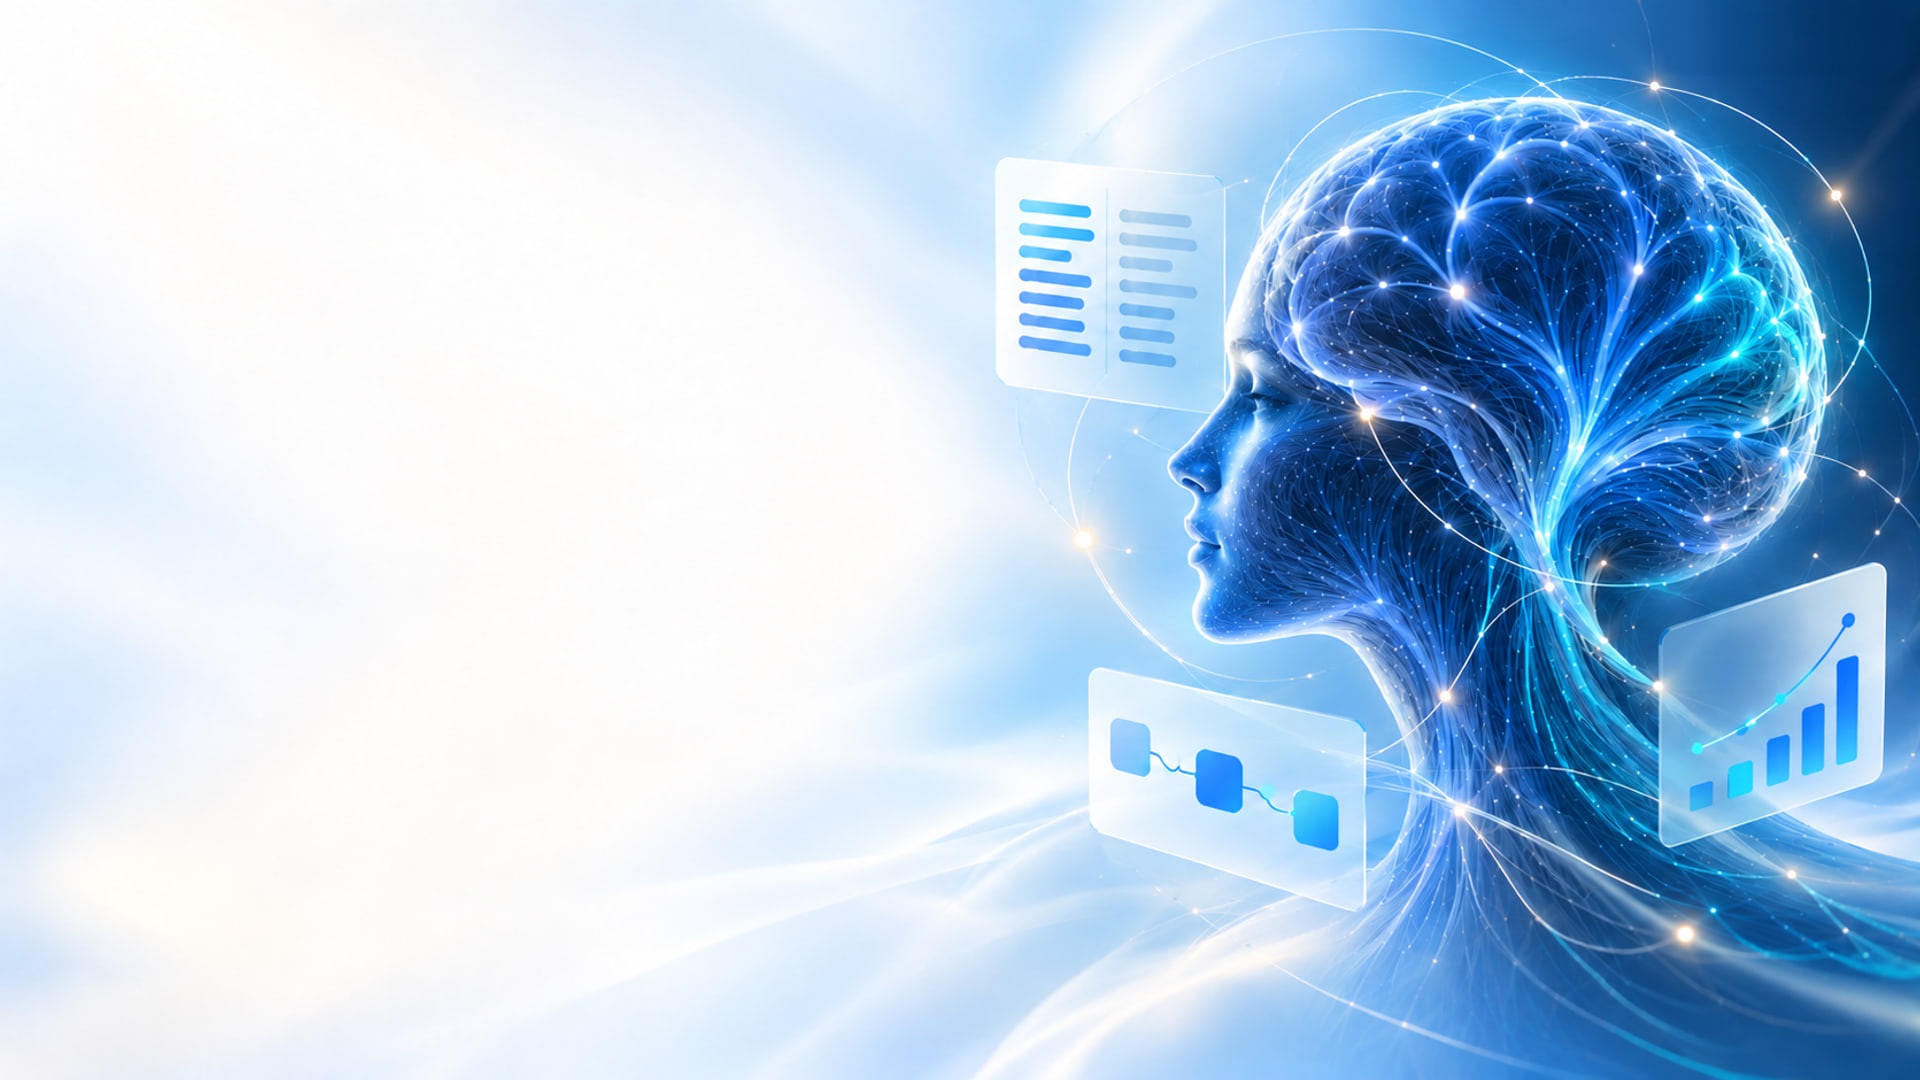
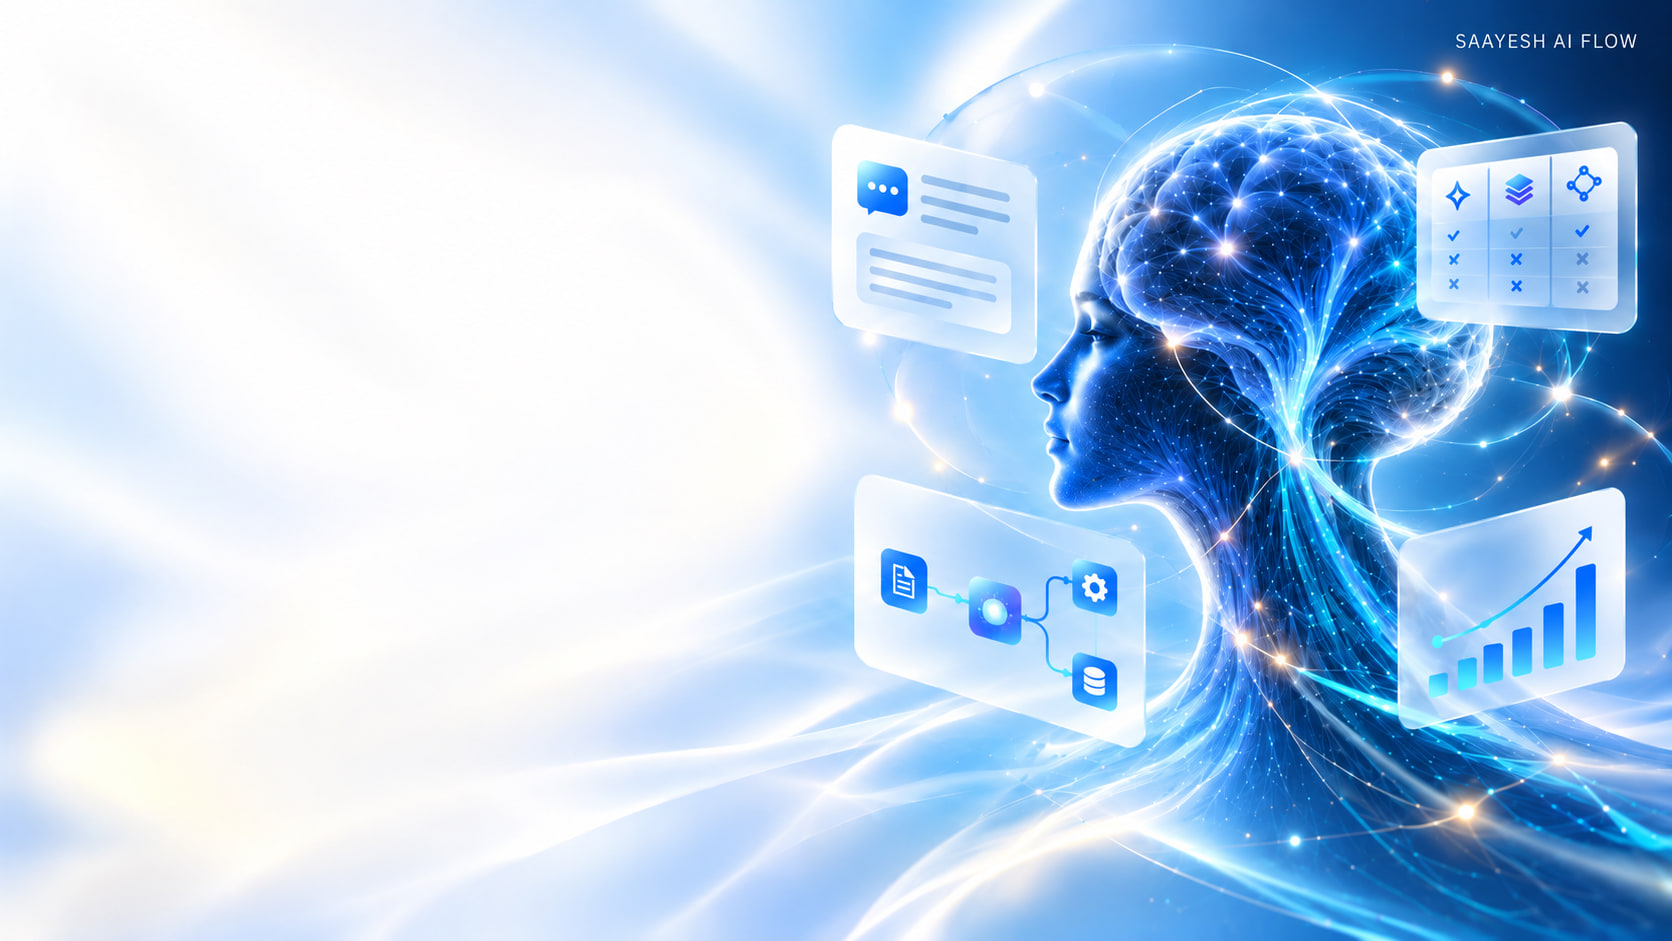
Add homepage image

diff --git a/src/config/media.ts b/src/config/media.ts
@@ -124,14 +124,24 @@ export const MEDIA = {
     credit: owned(),
   },
   /**
-   * The homepage hero. Composed with its subject on the right and open sky on
-   * the left, so the hero copy sits in the empty half; see src/pages/index.astro.
-   * Its master is 1920x1080 rather than the usual 1600x900 because it is the
-   * only full-bleed background on the site and has no content column to sit in.
+   * The homepage hero. Composed with its subject in the right half and open
+   * sky on the left, so the hero copy sits in the empty half; see
+   * src/pages/index.astro, which blacks that half out and leaves the right
+   * half of the picture undimmed.
+   *
+   * Its master is 1672x941 rather than the usual 1600x900 because it is the
+   * only full-bleed background on the site and has no content column to sit
+   * in. Keep any replacement at that same ~16:9 ratio with its subject right
+   * of centre and nothing that matters in the left half or the outer 3% of
+   * any edge: the hero anchors the picture to its right edge, so a narrow
+   * desktop trims the left, and a very wide one trims top and bottom.
+   *
+   * The artwork carries the brand name set into its top-right corner, which
+   * is why the crop is biased towards the top — see .hero-art.
    */
   home: {
     src: homeHero,
-    alt: "A human profile in blue light whose head opens into a branching neural network, surrounded by floating panels showing a document, a three-step workflow, and a rising chart.",
+    alt: "A human profile in blue light whose head opens into a branching neural network, surrounded by floating panels showing a chat thread, a three-step workflow, a checklist and a rising chart.",
     credit: owned(),
   },
 } as const satisfies Record<string, MediaAsset>;
